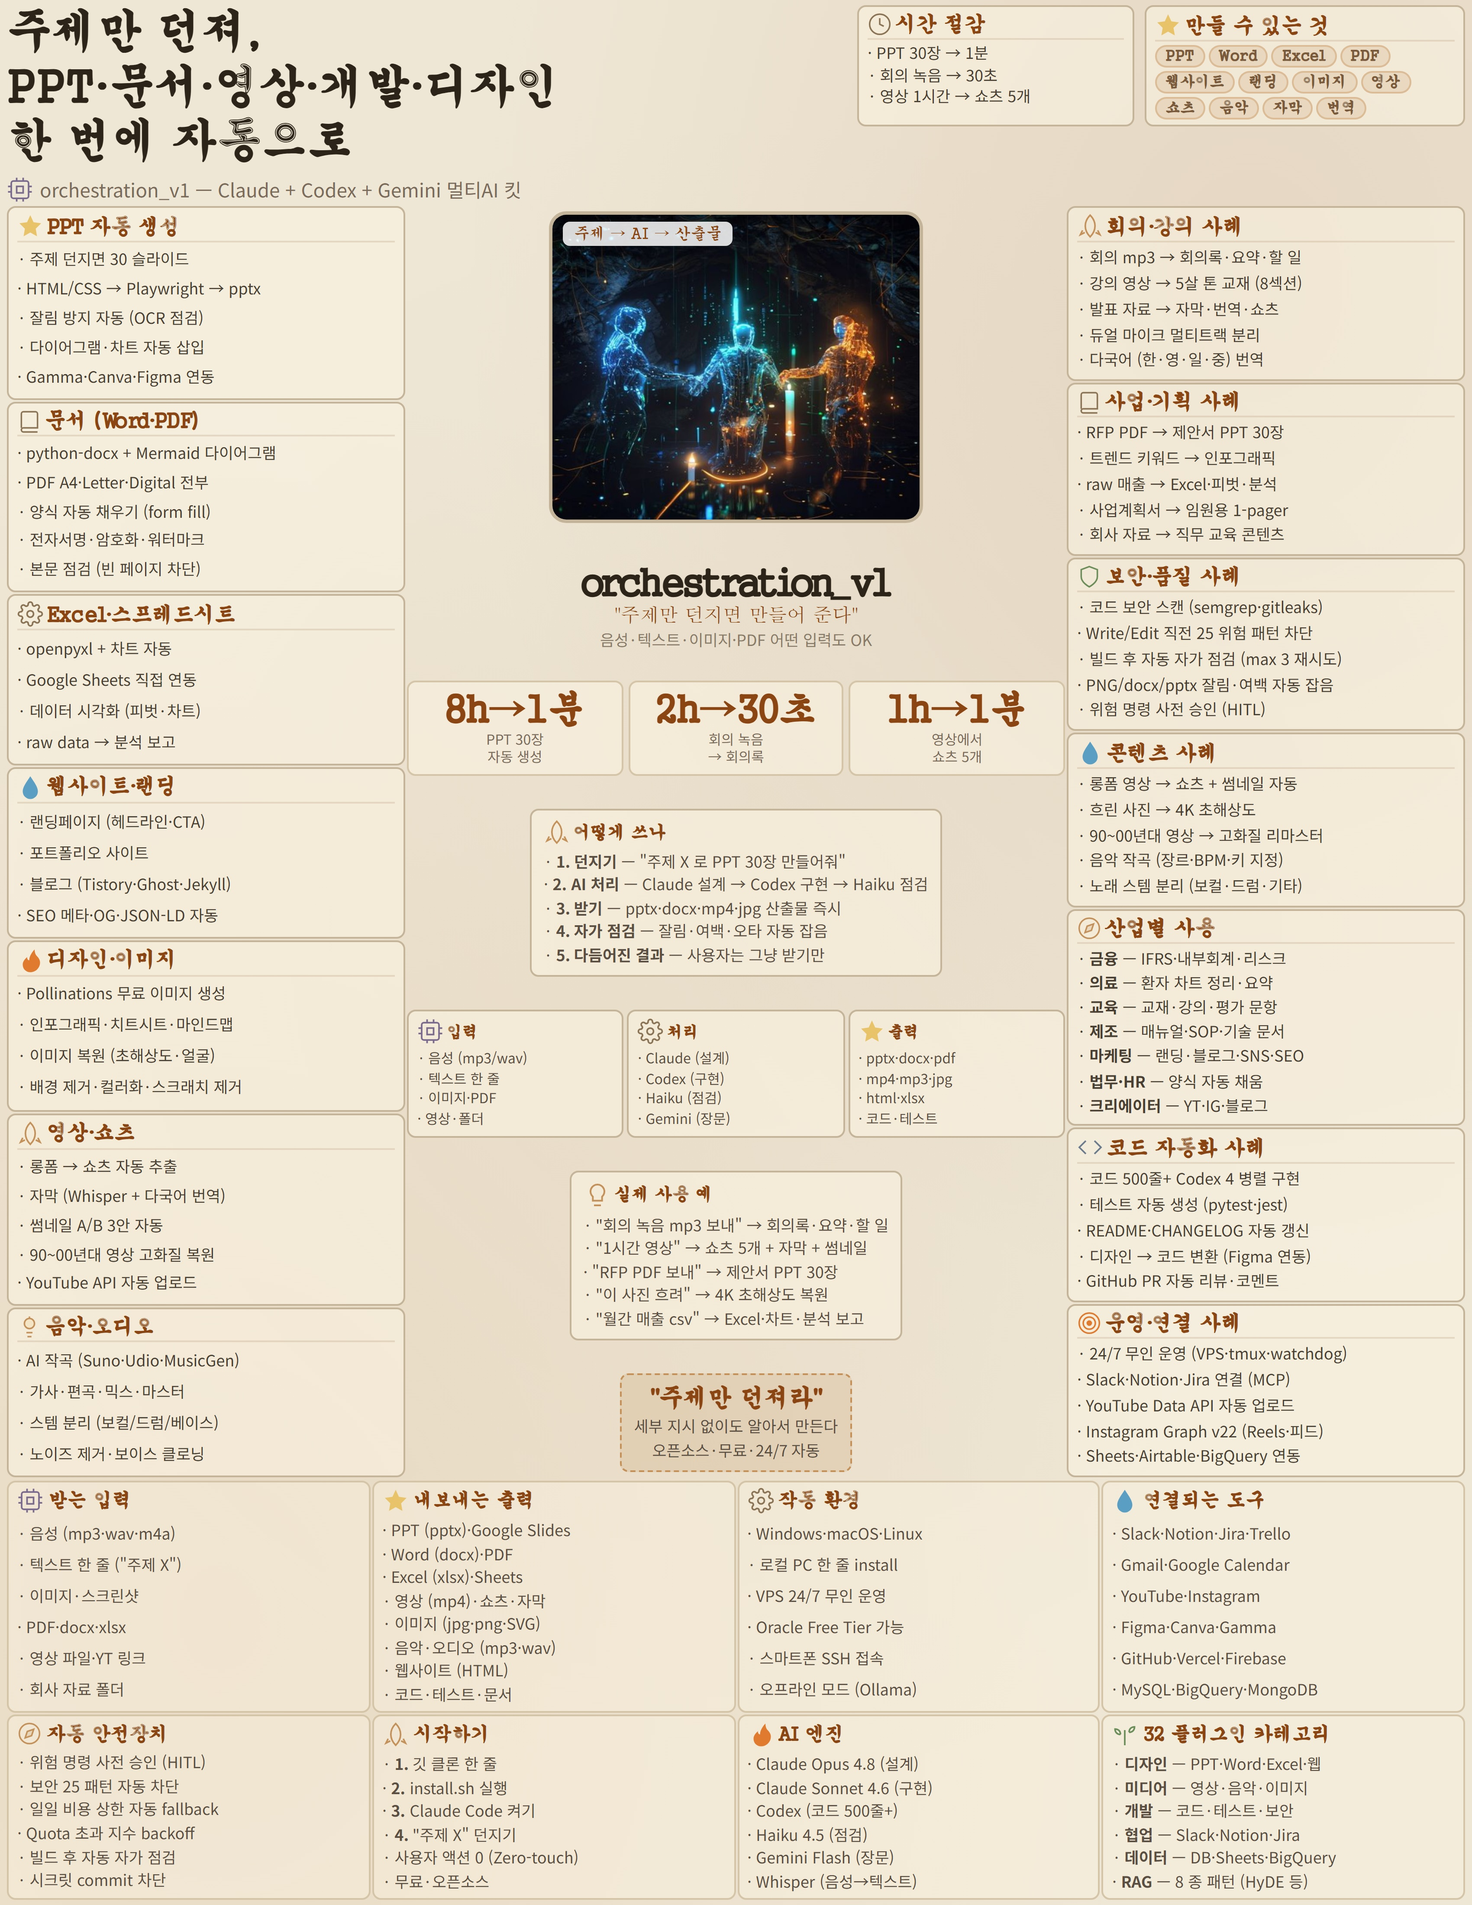
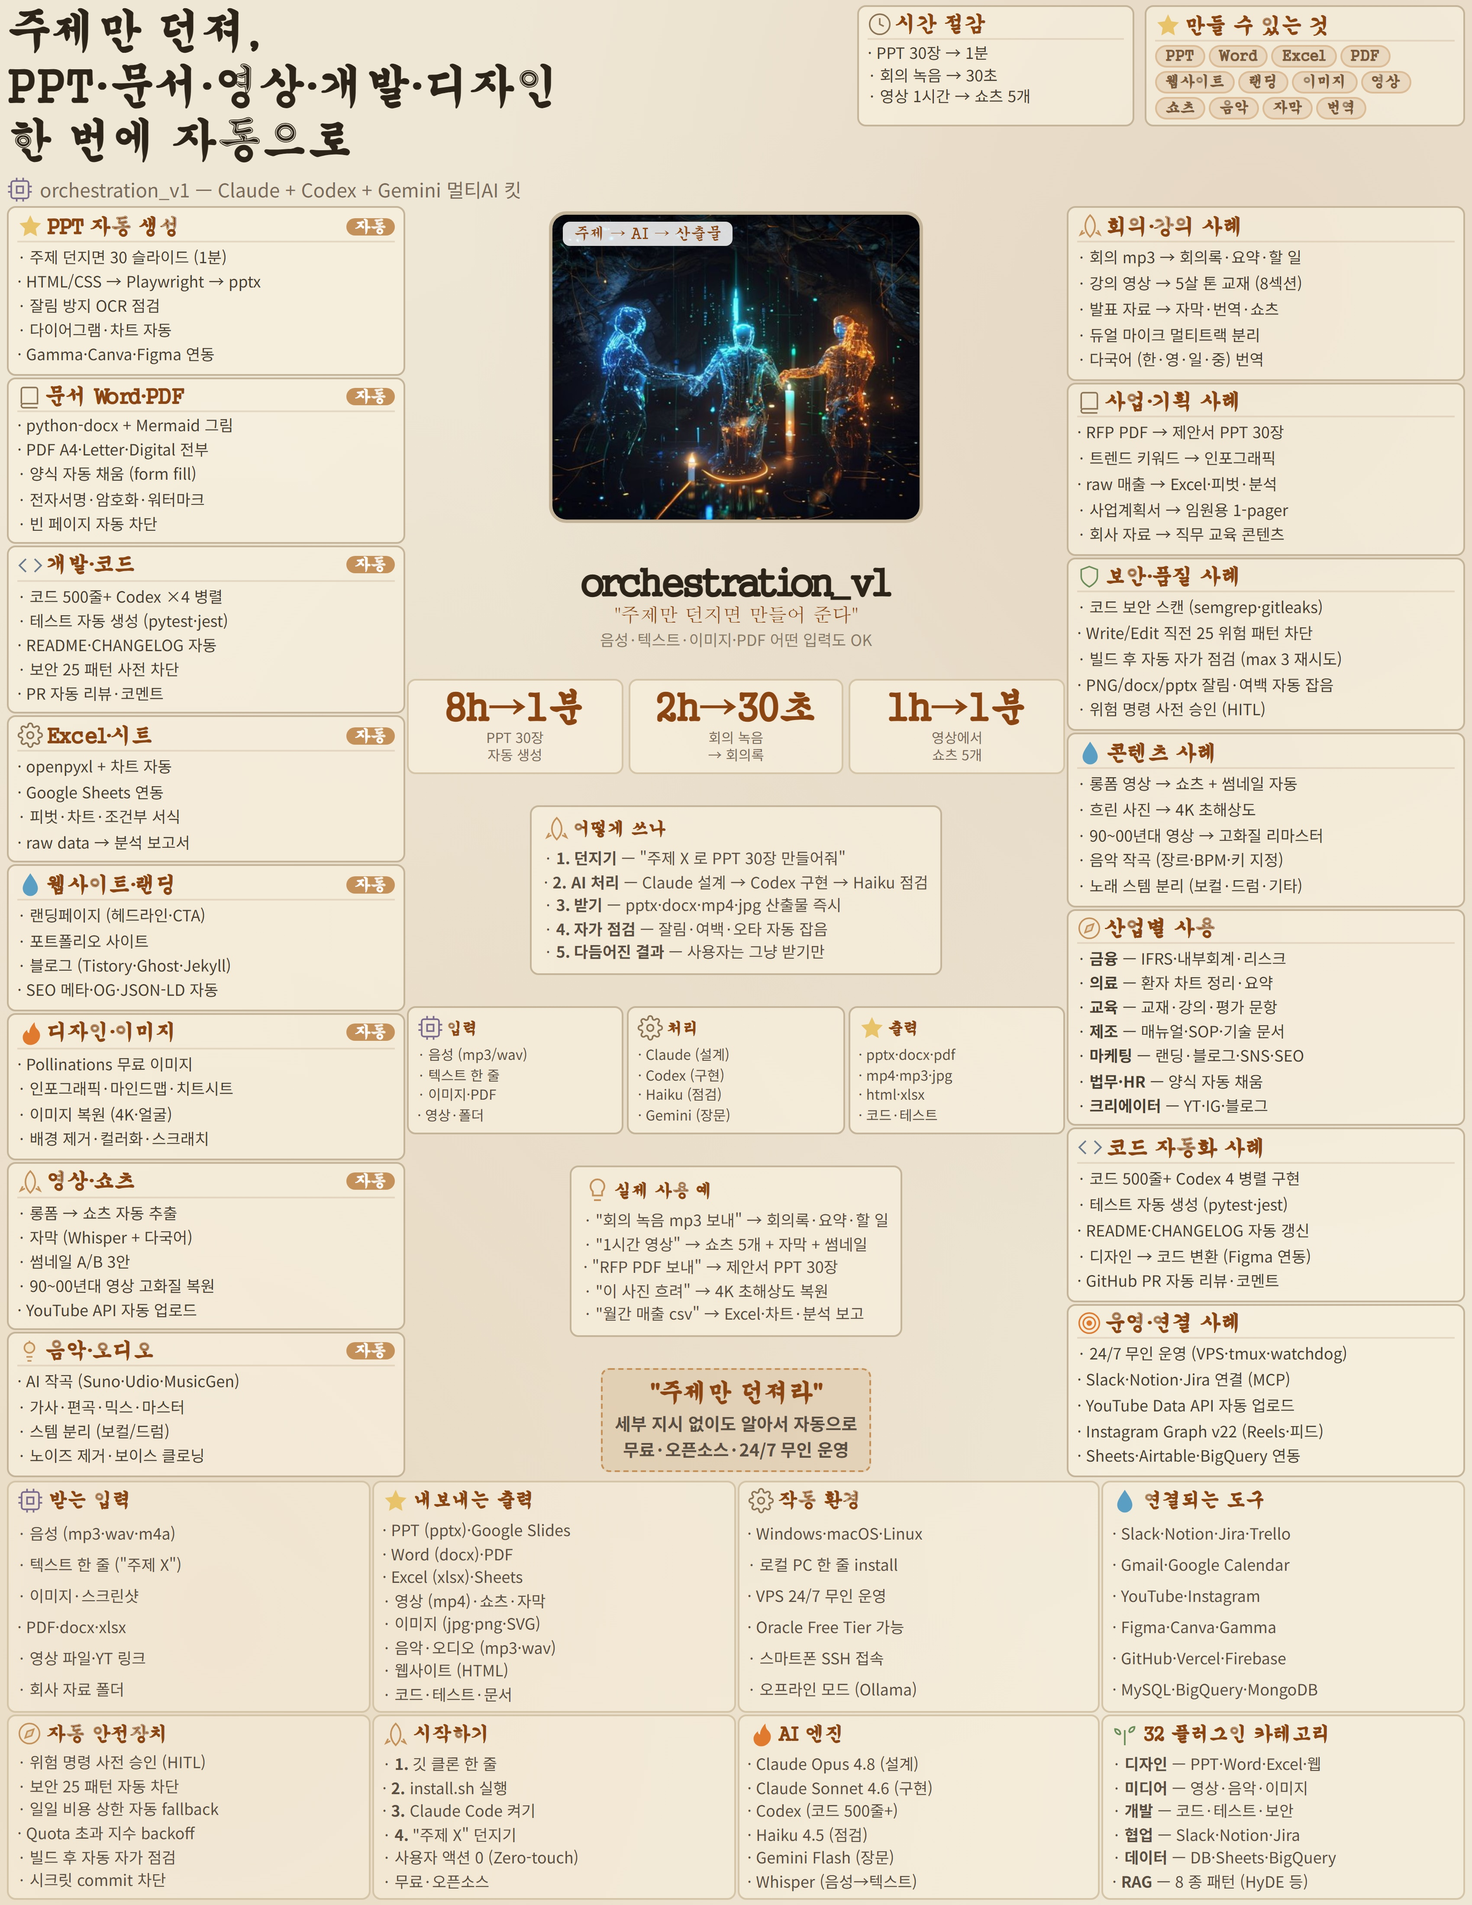
fix(promo): 평점 제거 + "자동" 배지 + 개발·코드 카드 추가
사용자 지적:
- "누가 개발속도 이런건 하라했어" → X/10 평점 모두 제거
- "자동이란 단어만 좋아" → 각 카드에 "자동" 배지 추가 (갈색 캡슐)
- "주제만 던지면 만들어준다 만 좋아" → 중앙 카피 강조 (font-weight 700, font ↑)
- "개발은 왜 없어" → mid-left 에 "개발·코드" 카드 신규

mid-left 8 카드 (균등):
PPT 자동 · 문서 · 개발·코드 · Excel · 웹사이트 · 디자인 · 영상 · 음악
각 카드 h3 우측에 "자동" 배지

diff --git a/docs/ssj/orch-promo.html b/docs/ssj/orch-promo.html
@@ -38,6 +38,7 @@ body{font-family:var(--font-body);overflow:hidden;color:var(--color-text)}
 /* === CARD SYSTEM === */
 .card{background:var(--color-card);border:1.2px solid var(--color-border);border-radius:var(--radius-card);padding:var(--pad-card);box-shadow:none;overflow:hidden}
 .card h3{font-family:var(--font-title);font-size:var(--font-h3);font-weight:700;color:var(--color-accent);margin-bottom:2px;border-bottom:1px solid rgba(180,150,120,.25);padding-bottom:1px;display:flex;align-items:center;gap:var(--gap-tag)}
+.auto-badge{font-family:'Gaegu',cursive;font-size:9px;font-weight:700;color:#fff;background:#c4915a;padding:0 5px;border-radius:8px;margin-left:auto}
 .card li,.card p{font-size:var(--font-body-size);line-height:var(--line-height);color:var(--color-text-sub)}
 .card ul{list-style:none;padding:0}
 /* === TAG SYSTEM === */
@@ -103,36 +104,46 @@ body{width:850px;height:1100px;background:#efe7d6;
 <div class="mid">
   <div class="mid-left">
     <div class="card">
-      <h3><svg viewBox="0 0 24 24" width="15" height="15" fill="#e8c36a" stroke="none"><path d="M12 2l3 6.5 7 1-5 5 1.2 7L12 18l-6.2 3.5L7 14.5l-5-5 7-1z"/></svg> PPT 자동 생성</h3>
+      <h3><svg viewBox="0 0 24 24" width="15" height="15" fill="#e8c36a" stroke="none"><path d="M12 2l3 6.5 7 1-5 5 1.2 7L12 18l-6.2 3.5L7 14.5l-5-5 7-1z"/></svg> PPT 자동 생성 <span class="auto-badge">자동</span></h3>
       <ul>
-        <li>&middot; 주제 던지면 30 슬라이드</li>
+        <li>&middot; 주제 던지면 30 슬라이드 (1분)</li>
         <li>&middot; HTML/CSS → Playwright → pptx</li>
-        <li>&middot; 잘림 방지 자동 (OCR 점검)</li>
-        <li>&middot; 다이어그램·차트 자동 삽입</li>
+        <li>&middot; 잘림 방지 OCR 점검</li>
+        <li>&middot; 다이어그램·차트 자동</li>
         <li>&middot; Gamma·Canva·Figma 연동</li>
       </ul>
     </div>
     <div class="card">
-      <h3><svg viewBox="0 0 24 24" width="14" height="14" fill="none" stroke="#8b7355" stroke-width="1.5"><path d="M4 19V5a2 2 0 0 1 2-2h12a2 2 0 0 1 2 2v14H6a2 2 0 0 0 0 4h14"/></svg> 문서 (Word·PDF)</h3>
+      <h3><svg viewBox="0 0 24 24" width="14" height="14" fill="none" stroke="#8b7355" stroke-width="1.5"><path d="M4 19V5a2 2 0 0 1 2-2h12a2 2 0 0 1 2 2v14H6a2 2 0 0 0 0 4h14"/></svg> 문서 Word·PDF <span class="auto-badge">자동</span></h3>
       <ul>
-        <li>&middot; python-docx + Mermaid 다이어그램</li>
+        <li>&middot; python-docx + Mermaid 그림</li>
         <li>&middot; PDF A4·Letter·Digital 전부</li>
-        <li>&middot; 양식 자동 채우기 (form fill)</li>
+        <li>&middot; 양식 자동 채움 (form fill)</li>
         <li>&middot; 전자서명·암호화·워터마크</li>
-        <li>&middot; 본문 점검 (빈 페이지 차단)</li>
+        <li>&middot; 빈 페이지 자동 차단</li>
       </ul>
     </div>
     <div class="card">
-      <h3><svg viewBox="0 0 24 24" width="15" height="15" fill="none" stroke="#8b7355" stroke-width="1.5"><path d="M12 15a3 3 0 1 0 0-6 3 3 0 0 0 0 6z"/><path d="M19.4 15a1.65 1.65 0 0 0 .33 1.82l.06.06a2 2 0 1 1-2.83 2.83l-.06-.06a1.65 1.65 0 0 0-1.82-.33 1.65 1.65 0 0 0-1 1.51V21a2 2 0 0 1-4 0v-.09A1.65 1.65 0 0 0 9 19.4a1.65 1.65 0 0 0-1.82.33l-.06.06a2 2 0 1 1-2.83-2.83l.06-.06A1.65 1.65 0 0 0 4.68 15a1.65 1.65 0 0 0-1.51-1H3a2 2 0 0 1 0-4h.09A1.65 1.65 0 0 0 4.6 9a1.65 1.65 0 0 0-.33-1.82l-.06-.06a2 2 0 1 1 2.83-2.83l.06.06A1.65 1.65 0 0 0 9 4.68a1.65 1.65 0 0 0 1-1.51V3a2 2 0 0 1 4 0v.09a1.65 1.65 0 0 0 1 1.51 1.65 1.65 0 0 0 1.82-.33l.06-.06a2 2 0 1 1 2.83 2.83l-.06.06A1.65 1.65 0 0 0 19.4 9a1.65 1.65 0 0 0 1.51 1H21a2 2 0 0 1 0 4h-.09a1.65 1.65 0 0 0-1.51 1z"/></svg> Excel·스프레드시트</h3>
+      <h3><svg viewBox="0 0 24 24" width="15" height="15" fill="none" stroke="#6b7b8e" stroke-width="1.5"><path d="M16 18l6-6-6-6M8 6l-6 6 6 6"/></svg> 개발·코드 <span class="auto-badge">자동</span></h3>
+      <ul>
+        <li>&middot; 코드 500줄+ Codex ×4 병렬</li>
+        <li>&middot; 테스트 자동 생성 (pytest·jest)</li>
+        <li>&middot; README·CHANGELOG 자동</li>
+        <li>&middot; 보안 25 패턴 사전 차단</li>
+        <li>&middot; PR 자동 리뷰·코멘트</li>
+      </ul>
+    </div>
+    <div class="card">
+      <h3><svg viewBox="0 0 24 24" width="15" height="15" fill="none" stroke="#8b7355" stroke-width="1.5"><path d="M12 15a3 3 0 1 0 0-6 3 3 0 0 0 0 6z"/><path d="M19.4 15a1.65 1.65 0 0 0 .33 1.82l.06.06a2 2 0 1 1-2.83 2.83l-.06-.06a1.65 1.65 0 0 0-1.82-.33 1.65 1.65 0 0 0-1 1.51V21a2 2 0 0 1-4 0v-.09A1.65 1.65 0 0 0 9 19.4a1.65 1.65 0 0 0-1.82.33l-.06.06a2 2 0 1 1-2.83-2.83l.06-.06A1.65 1.65 0 0 0 4.68 15a1.65 1.65 0 0 0-1.51-1H3a2 2 0 0 1 0-4h.09A1.65 1.65 0 0 0 4.6 9a1.65 1.65 0 0 0-.33-1.82l-.06-.06a2 2 0 1 1 2.83-2.83l.06.06A1.65 1.65 0 0 0 9 4.68a1.65 1.65 0 0 0 1-1.51V3a2 2 0 0 1 4 0v.09a1.65 1.65 0 0 0 1 1.51 1.65 1.65 0 0 0 1.82-.33l.06-.06a2 2 0 1 1 2.83 2.83l-.06.06A1.65 1.65 0 0 0 19.4 9a1.65 1.65 0 0 0 1.51 1H21a2 2 0 0 1 0 4h-.09a1.65 1.65 0 0 0-1.51 1z"/></svg> Excel·시트 <span class="auto-badge">자동</span></h3>
       <ul>
         <li>&middot; openpyxl + 차트 자동</li>
-        <li>&middot; Google Sheets 직접 연동</li>
-        <li>&middot; 데이터 시각화 (피벗·차트)</li>
-        <li>&middot; raw data → 분석 보고</li>
+        <li>&middot; Google Sheets 연동</li>
+        <li>&middot; 피벗·차트·조건부 서식</li>
+        <li>&middot; raw data → 분석 보고서</li>
       </ul>
     </div>
     <div class="card">
-      <h3><svg viewBox="0 0 24 24" width="15" height="15" fill="#5a9ec4" stroke="none"><path d="M12 2C8 8 5 12 5 16a7 7 0 0 0 14 0c0-4-3-8-7-14z"/></svg> 웹사이트·랜딩</h3>
+      <h3><svg viewBox="0 0 24 24" width="15" height="15" fill="#5a9ec4" stroke="none"><path d="M12 2C8 8 5 12 5 16a7 7 0 0 0 14 0c0-4-3-8-7-14z"/></svg> 웹사이트·랜딩 <span class="auto-badge">자동</span></h3>
       <ul>
         <li>&middot; 랜딩페이지 (헤드라인·CTA)</li>
         <li>&middot; 포트폴리오 사이트</li>
@@ -141,30 +152,30 @@ body{width:850px;height:1100px;background:#efe7d6;
       </ul>
     </div>
     <div class="card">
-      <h3><svg viewBox="0 0 24 24" width="15" height="15" fill="#e07a2f" stroke="none"><path d="M12 23c-4 0-7-3-7-7 0-3 2-5 4-7 0 2 1 3 2 3 0-4 3-8 5-10 0 3 1 5 2 6 2 2 3 4 3 6 0 5-4 9-9 9z"/></svg> 디자인·이미지</h3>
+      <h3><svg viewBox="0 0 24 24" width="15" height="15" fill="#e07a2f" stroke="none"><path d="M12 23c-4 0-7-3-7-7 0-3 2-5 4-7 0 2 1 3 2 3 0-4 3-8 5-10 0 3 1 5 2 6 2 2 3 4 3 6 0 5-4 9-9 9z"/></svg> 디자인·이미지 <span class="auto-badge">자동</span></h3>
       <ul>
-        <li>&middot; Pollinations 무료 이미지 생성</li>
-        <li>&middot; 인포그래픽·치트시트·마인드맵</li>
-        <li>&middot; 이미지 복원 (초해상도·얼굴)</li>
-        <li>&middot; 배경 제거·컬러화·스크래치 제거</li>
+        <li>&middot; Pollinations 무료 이미지</li>
+        <li>&middot; 인포그래픽·마인드맵·치트시트</li>
+        <li>&middot; 이미지 복원 (4K·얼굴)</li>
+        <li>&middot; 배경 제거·컬러화·스크래치</li>
       </ul>
     </div>
     <div class="card">
-      <h3><svg viewBox="0 0 24 24" width="15" height="15" fill="none" stroke="#c4915a" stroke-width="1.5"><path d="M12 2C6 8 6 16 12 22c6-6 6-14 0-20zM5 16l-2 4 4-2M19 16l2 4-4-2"/></svg> 영상·쇼츠</h3>
+      <h3><svg viewBox="0 0 24 24" width="15" height="15" fill="none" stroke="#c4915a" stroke-width="1.5"><path d="M12 2C6 8 6 16 12 22c6-6 6-14 0-20zM5 16l-2 4 4-2M19 16l2 4-4-2"/></svg> 영상·쇼츠 <span class="auto-badge">자동</span></h3>
       <ul>
         <li>&middot; 롱폼 → 쇼츠 자동 추출</li>
-        <li>&middot; 자막 (Whisper + 다국어 번역)</li>
-        <li>&middot; 썸네일 A/B 3안 자동</li>
+        <li>&middot; 자막 (Whisper + 다국어)</li>
+        <li>&middot; 썸네일 A/B 3안</li>
         <li>&middot; 90~00년대 영상 고화질 복원</li>
         <li>&middot; YouTube API 자동 업로드</li>
       </ul>
     </div>
     <div class="card">
-      <h3><svg viewBox="0 0 24 24" width="14" height="14" fill="none" stroke="#c4915a" stroke-width="1.5"><path d="M9 18h6M10 22h4"/><circle cx="12" cy="9" r="5" fill="rgba(240,192,64,.12)"/><path d="M12 2v2"/></svg> 음악·오디오</h3>
+      <h3><svg viewBox="0 0 24 24" width="14" height="14" fill="none" stroke="#c4915a" stroke-width="1.5"><path d="M9 18h6M10 22h4"/><circle cx="12" cy="9" r="5" fill="rgba(240,192,64,.12)"/><path d="M12 2v2"/></svg> 음악·오디오 <span class="auto-badge">자동</span></h3>
       <ul>
         <li>&middot; AI 작곡 (Suno·Udio·MusicGen)</li>
         <li>&middot; 가사·편곡·믹스·마스터</li>
-        <li>&middot; 스템 분리 (보컬/드럼/베이스)</li>
+        <li>&middot; 스템 분리 (보컬/드럼)</li>
         <li>&middot; 노이즈 제거·보이스 클로닝</li>
       </ul>
     </div>
@@ -236,9 +247,9 @@ body{width:850px;height:1100px;background:#efe7d6;
     </div>
     <div style="background:rgba(196,145,90,.18);border:1px dashed #c4915a;border-radius:5px;padding:5px 7px;margin-top:2px;text-align:center">
       <div style="font-family:'Gaegu',cursive;font-size:14px;color:#8b4513;font-weight:700">"주제만 던져라"</div>
-      <div style="font-size:9px;color:#5a4f42;margin-top:2px;line-height:1.5">
-        세부 지시 없이도 알아서 만든다<br>
-        오픈소스·무료·24/7 자동
+      <div style="font-size:10px;color:#5a4f42;margin-top:2px;line-height:1.5;font-weight:700">
+        세부 지시 없이도 알아서 자동으로<br>
+        무료·오픈소스·24/7 무인 운영
       </div>
     </div>
   </div>

diff --git a/docs/ssj/render-ssj.py b/docs/ssj/render-ssj.py
@@ -78,6 +78,7 @@ body{font-family:var(--font-body);overflow:hidden;color:var(--color-text)}
 /* === CARD SYSTEM === */
 .card{background:var(--color-card);border:1.2px solid var(--color-border);border-radius:var(--radius-card);padding:var(--pad-card);box-shadow:none;overflow:hidden}
 .card h3{font-family:var(--font-title);font-size:var(--font-h3);font-weight:700;color:var(--color-accent);margin-bottom:2px;border-bottom:1px solid rgba(180,150,120,.25);padding-bottom:1px;display:flex;align-items:center;gap:var(--gap-tag)}
+.auto-badge{font-family:'Gaegu',cursive;font-size:9px;font-weight:700;color:#fff;background:#c4915a;padding:0 5px;border-radius:8px;margin-left:auto}
 .card li,.card p{font-size:var(--font-body-size);line-height:var(--line-height);color:var(--color-text-sub)}
 .card ul{list-style:none;padding:0}
 /* === TAG SYSTEM === */
@@ -148,36 +149,46 @@ body{{width:850px;height:1100px;background:#efe7d6;
 <div class="mid">
   <div class="mid-left">
     <div class="card">
-      <h3>{I['star']} PPT 자동 생성</h3>
+      <h3>{I['star']} PPT 자동 생성 <span class="auto-badge">자동</span></h3>
       <ul>
-        <li>&middot; 주제 던지면 30 슬라이드</li>
+        <li>&middot; 주제 던지면 30 슬라이드 (1분)</li>
         <li>&middot; HTML/CSS → Playwright → pptx</li>
-        <li>&middot; 잘림 방지 자동 (OCR 점검)</li>
-        <li>&middot; 다이어그램·차트 자동 삽입</li>
+        <li>&middot; 잘림 방지 OCR 점검</li>
+        <li>&middot; 다이어그램·차트 자동</li>
         <li>&middot; Gamma·Canva·Figma 연동</li>
       </ul>
     </div>
     <div class="card">
-      <h3>{I['book']} 문서 (Word·PDF)</h3>
+      <h3>{I['book']} 문서 Word·PDF <span class="auto-badge">자동</span></h3>
       <ul>
-        <li>&middot; python-docx + Mermaid 다이어그램</li>
+        <li>&middot; python-docx + Mermaid 그림</li>
         <li>&middot; PDF A4·Letter·Digital 전부</li>
-        <li>&middot; 양식 자동 채우기 (form fill)</li>
+        <li>&middot; 양식 자동 채움 (form fill)</li>
         <li>&middot; 전자서명·암호화·워터마크</li>
-        <li>&middot; 본문 점검 (빈 페이지 차단)</li>
+        <li>&middot; 빈 페이지 자동 차단</li>
       </ul>
     </div>
     <div class="card">
-      <h3>{I['gear']} Excel·스프레드시트</h3>
+      <h3>{I['code']} 개발·코드 <span class="auto-badge">자동</span></h3>
+      <ul>
+        <li>&middot; 코드 500줄+ Codex ×4 병렬</li>
+        <li>&middot; 테스트 자동 생성 (pytest·jest)</li>
+        <li>&middot; README·CHANGELOG 자동</li>
+        <li>&middot; 보안 25 패턴 사전 차단</li>
+        <li>&middot; PR 자동 리뷰·코멘트</li>
+      </ul>
+    </div>
+    <div class="card">
+      <h3>{I['gear']} Excel·시트 <span class="auto-badge">자동</span></h3>
       <ul>
         <li>&middot; openpyxl + 차트 자동</li>
-        <li>&middot; Google Sheets 직접 연동</li>
-        <li>&middot; 데이터 시각화 (피벗·차트)</li>
-        <li>&middot; raw data → 분석 보고</li>
+        <li>&middot; Google Sheets 연동</li>
+        <li>&middot; 피벗·차트·조건부 서식</li>
+        <li>&middot; raw data → 분석 보고서</li>
       </ul>
     </div>
     <div class="card">
-      <h3>{I['water']} 웹사이트·랜딩</h3>
+      <h3>{I['water']} 웹사이트·랜딩 <span class="auto-badge">자동</span></h3>
       <ul>
         <li>&middot; 랜딩페이지 (헤드라인·CTA)</li>
         <li>&middot; 포트폴리오 사이트</li>
@@ -186,30 +197,30 @@ body{{width:850px;height:1100px;background:#efe7d6;
       </ul>
     </div>
     <div class="card">
-      <h3>{I['fire']} 디자인·이미지</h3>
+      <h3>{I['fire']} 디자인·이미지 <span class="auto-badge">자동</span></h3>
       <ul>
-        <li>&middot; Pollinations 무료 이미지 생성</li>
-        <li>&middot; 인포그래픽·치트시트·마인드맵</li>
-        <li>&middot; 이미지 복원 (초해상도·얼굴)</li>
-        <li>&middot; 배경 제거·컬러화·스크래치 제거</li>
+        <li>&middot; Pollinations 무료 이미지</li>
+        <li>&middot; 인포그래픽·마인드맵·치트시트</li>
+        <li>&middot; 이미지 복원 (4K·얼굴)</li>
+        <li>&middot; 배경 제거·컬러화·스크래치</li>
       </ul>
     </div>
     <div class="card">
-      <h3>{I['rocket']} 영상·쇼츠</h3>
+      <h3>{I['rocket']} 영상·쇼츠 <span class="auto-badge">자동</span></h3>
       <ul>
         <li>&middot; 롱폼 → 쇼츠 자동 추출</li>
-        <li>&middot; 자막 (Whisper + 다국어 번역)</li>
-        <li>&middot; 썸네일 A/B 3안 자동</li>
+        <li>&middot; 자막 (Whisper + 다국어)</li>
+        <li>&middot; 썸네일 A/B 3안</li>
         <li>&middot; 90~00년대 영상 고화질 복원</li>
         <li>&middot; YouTube API 자동 업로드</li>
       </ul>
     </div>
     <div class="card">
-      <h3>{I['lamp']} 음악·오디오</h3>
+      <h3>{I['lamp']} 음악·오디오 <span class="auto-badge">자동</span></h3>
       <ul>
         <li>&middot; AI 작곡 (Suno·Udio·MusicGen)</li>
         <li>&middot; 가사·편곡·믹스·마스터</li>
-        <li>&middot; 스템 분리 (보컬/드럼/베이스)</li>
+        <li>&middot; 스템 분리 (보컬/드럼)</li>
         <li>&middot; 노이즈 제거·보이스 클로닝</li>
       </ul>
     </div>
@@ -281,9 +292,9 @@ body{{width:850px;height:1100px;background:#efe7d6;
     </div>
     <div style="background:rgba(196,145,90,.18);border:1px dashed #c4915a;border-radius:5px;padding:5px 7px;margin-top:2px;text-align:center">
       <div style="font-family:'Gaegu',cursive;font-size:14px;color:#8b4513;font-weight:700">"주제만 던져라"</div>
-      <div style="font-size:9px;color:#5a4f42;margin-top:2px;line-height:1.5">
-        세부 지시 없이도 알아서 만든다<br>
-        오픈소스·무료·24/7 자동
+      <div style="font-size:10px;color:#5a4f42;margin-top:2px;line-height:1.5;font-weight:700">
+        세부 지시 없이도 알아서 자동으로<br>
+        무료·오픈소스·24/7 무인 운영
       </div>
     </div>
   </div>
